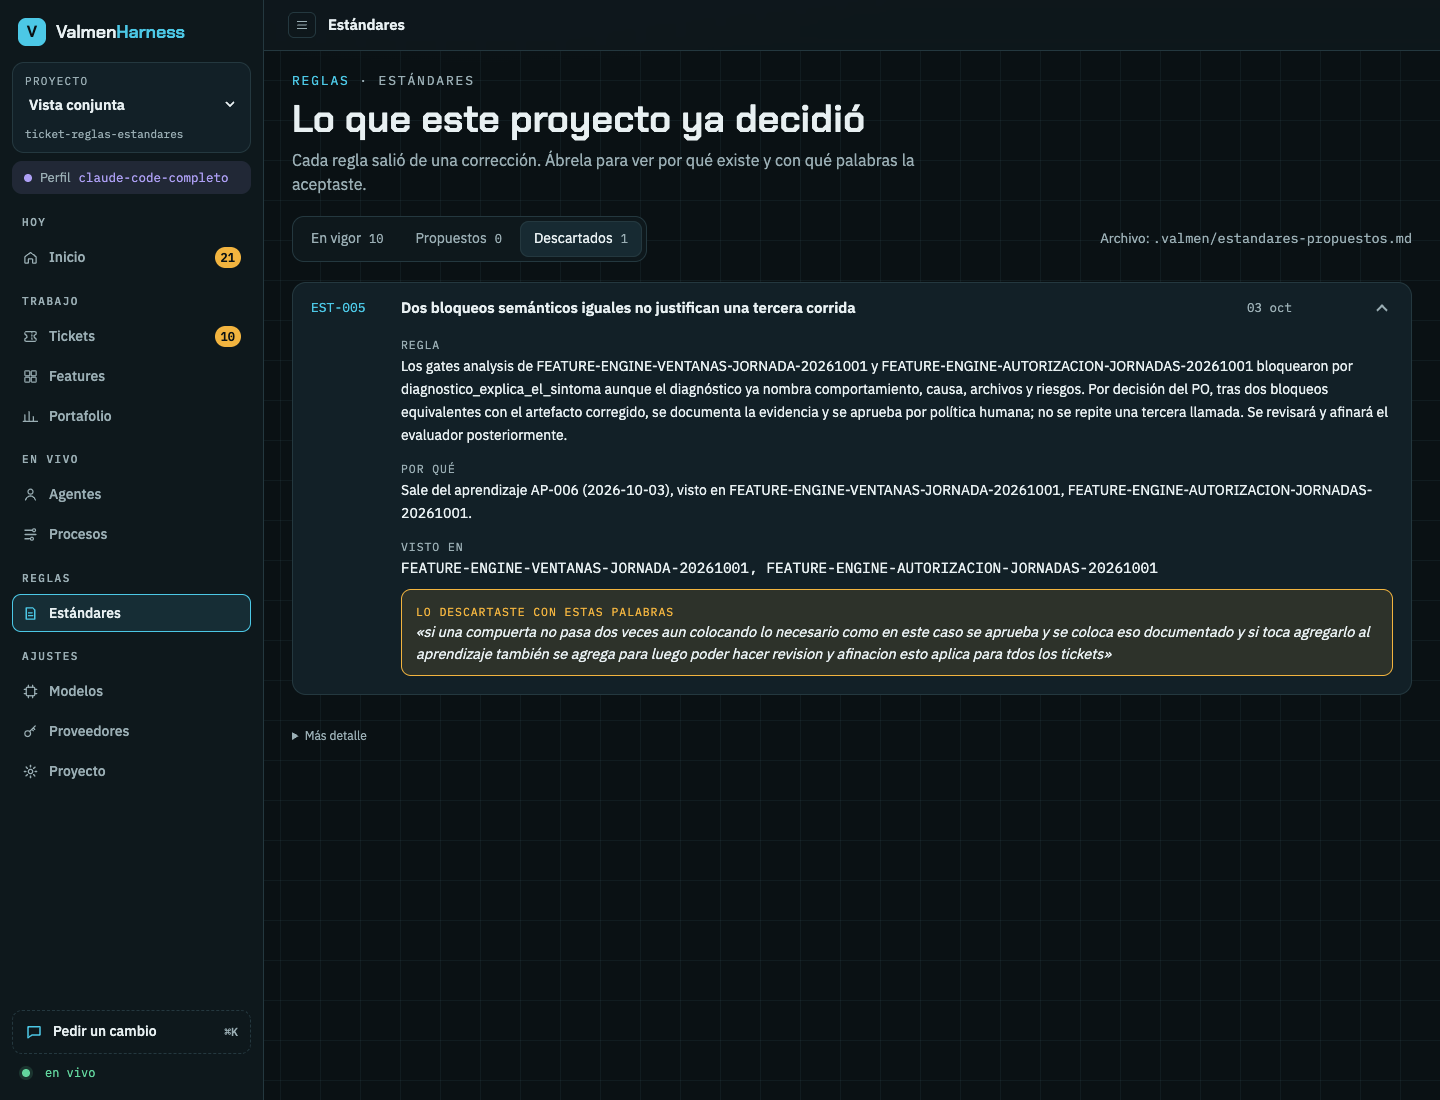
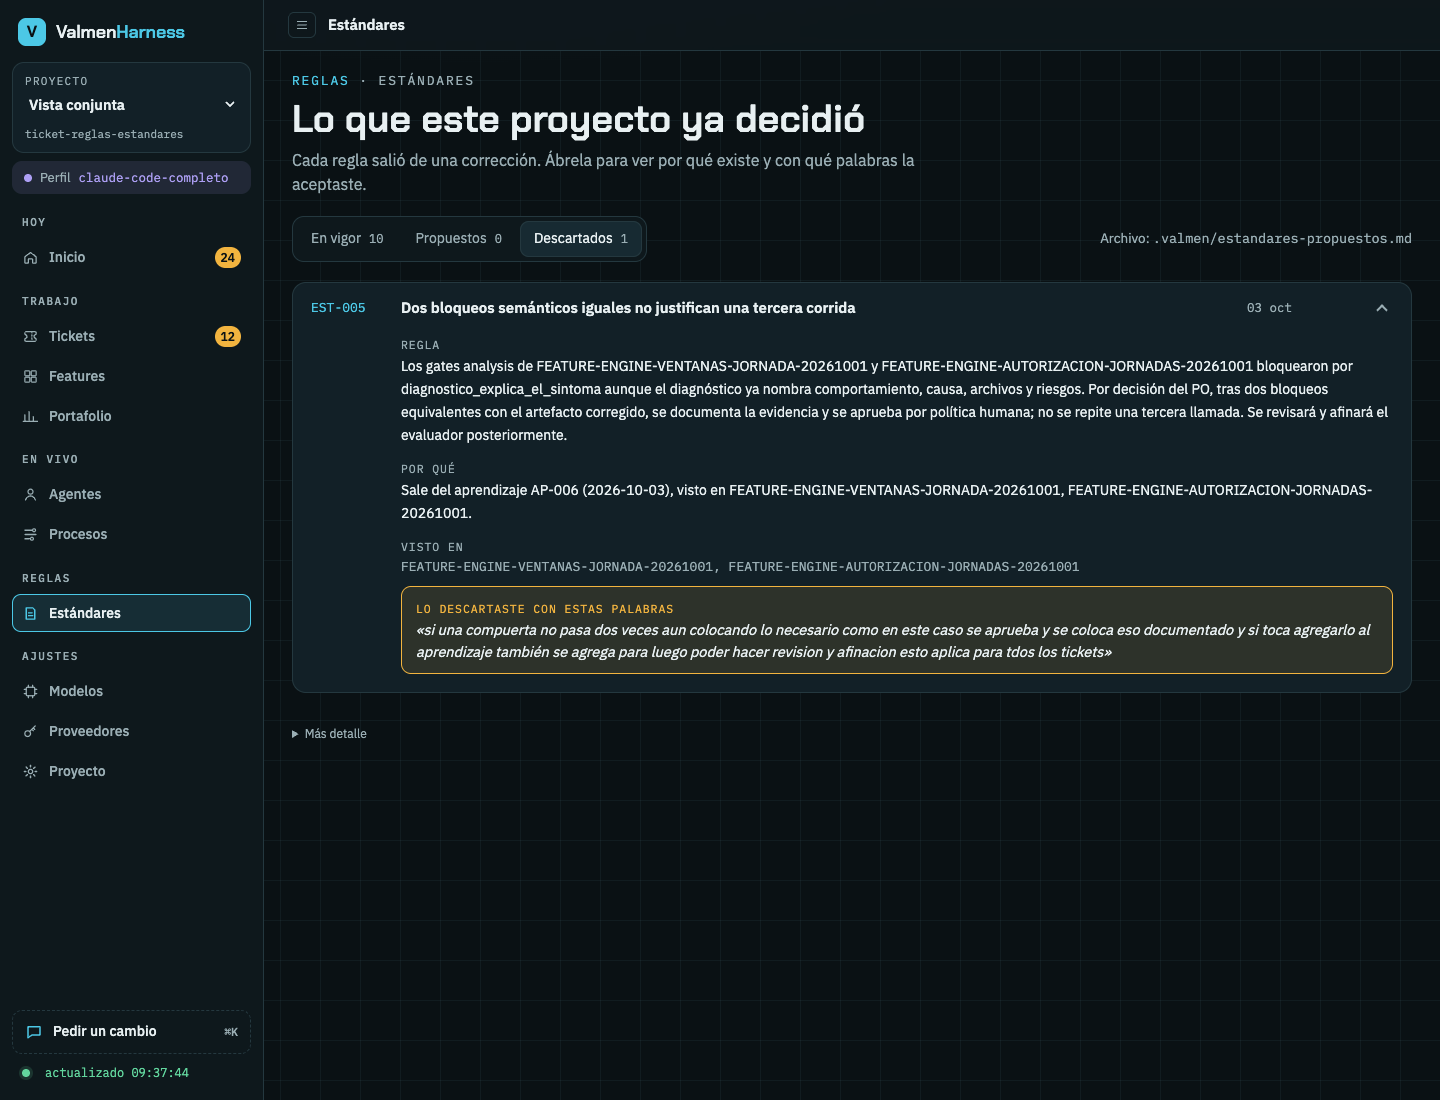
Rehace la evidencia de FEATURE-WEB-REGLAS-ESTANDARES-20261014 sobre la rama con main

Changed region(s): [[0.2812, 0.4945, 0.9688, 0.6182], [0.0312, 0.9582, 0.125, 0.9891], [0.2188, 0.6491, 0.25, 0.68]]

diff --git a/tickets/2026/FEATURE-WEB-REGLAS-ESTANDARES-20261014/ticket.md b/tickets/2026/FEATURE-WEB-REGLAS-ESTANDARES-20261014/ticket.md
@@ -207,6 +207,8 @@ Contrato de pruebas para el responsable. Directorio: `/Users/juanandrade/Desktop
 
 Resultados de esta sesión (2026-10-14), antes de traer main: los 36 archivos de prueba que ejecutan la interfaz (los de `tests/` que leen `web/index.html` o usan `scripts/verificar-interfaz.mjs`, incluido el nuevo) pasaron juntos: 604 pruebas. `node scripts/verificar-interfaz.mjs` → «Interfaz verificada.» (14 vistas). `valmen gate qa-mechanical --evaluator command` → APPROVE.
 
+Tras traer main (commit `893c890`, con `.valmen/approval/uses.jsonl` unido por `git merge-file --union` y `tickets/index.md` tomado de main): `npm run build` pasa; los 37 archivos de prueba de interfaz juntos más `tests/estandares.test.ts` suman 38 archivos y 632 pruebas, todas pasan; `node scripts/verificar-interfaz.mjs` → «Interfaz verificada.» (14 vistas). Las capturas se rehicieron sobre la rama fusionada con los mismos resultados. Servidor y Chrome quedaron cerrados.
+
 Evidencia visual con el registro real (Chrome sin pantalla por CDP, `valmen serve --port 4795` del worktree), en `tickets/2026/FEATURE-WEB-REGLAS-ESTANDARES-20261014/evidencia/`: `est-1440-oscuro.png`, `est-1440-claro.png`, `est-1440-oscuro-descartados.png`, `est-390-oscuro.png` y `est-390-claro.png`. Pestañas «En vigor 10 / Propuestos 0 / Descartados 1», las mismas cuentas del boceto. Las 10 filas en vigor cruzan con su propuesta (ningún aviso), en el orden y con las fechas del boceto (EST-011 13 oct … EST-001 27 sep). EST-011 está abierta con su frase literal. En Descartados, EST-005 aparece con «Lo descartaste con estas palabras». Al pulsar EST-010 queda `aria-expanded="true"` y EST-011 `false`. A 390 px, `scrollWidth` = `clientWidth` = 390 en oscuro y en claro.
 
 Validaciones manuales:
